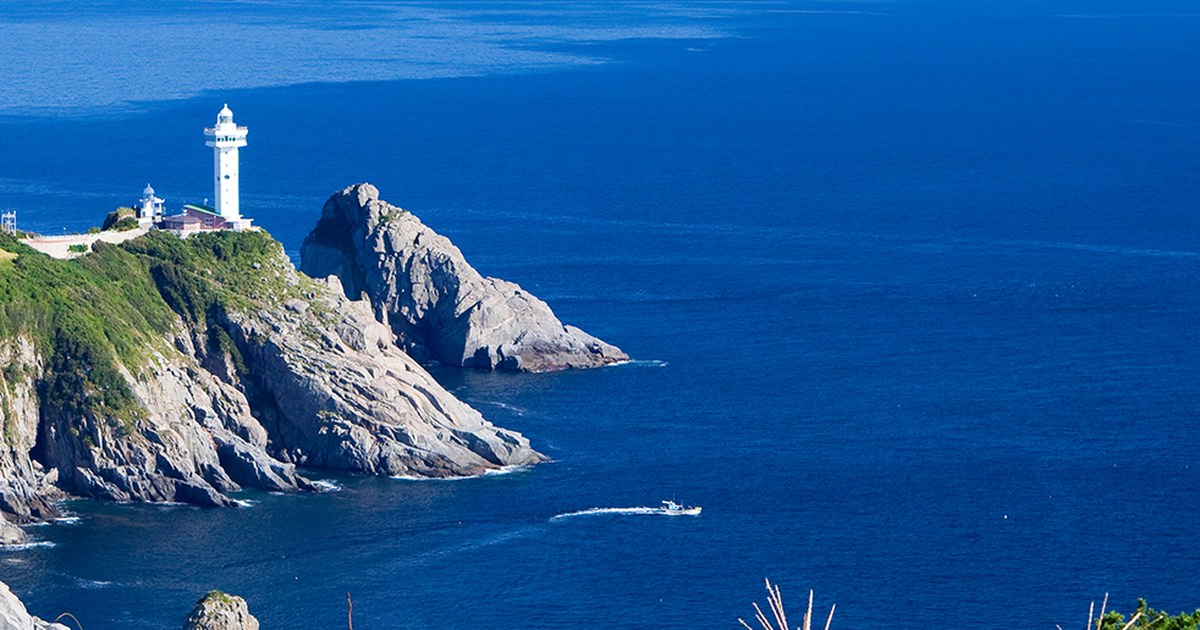
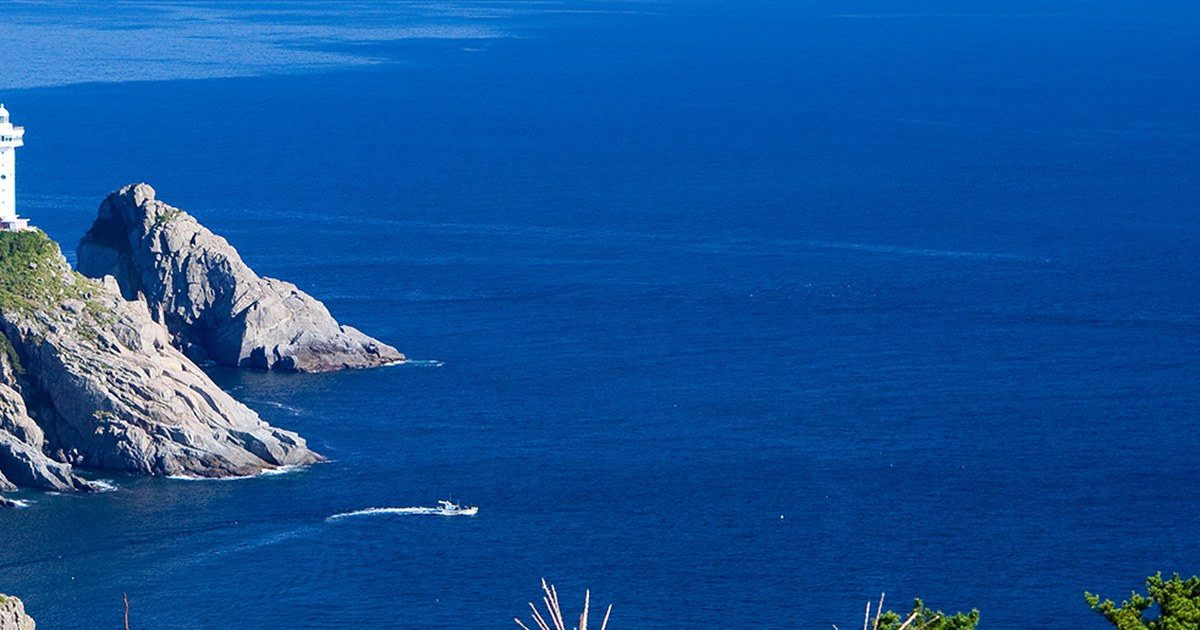
Improve OG share image: lighthouse background, readability
Re-crop the lighthouse photo so the cliff sits away from the text
block, strengthen the dark scrim, and match the org-name/tagline font
size to the date/venue line per feedback.

diff --git a/app/opengraph-image.tsx b/app/opengraph-image.tsx
@@ -35,14 +35,14 @@ export default function OpengraphImage() {
           style={{
             position: 'absolute',
             inset: 0,
-            background: 'linear-gradient(180deg, rgba(3,17,15,0.1) 0%, rgba(3,17,15,0.3) 40%, rgba(3,17,15,0.92) 100%)',
+            background: 'linear-gradient(180deg, rgba(3,17,15,0.18) 0%, rgba(3,17,15,0.42) 38%, rgba(3,17,15,0.94) 100%)',
           }}
         />
         <div
           style={{
             position: 'absolute',
             inset: 0,
-            background: 'linear-gradient(90deg, rgba(3,17,15,0.55) 0%, rgba(3,17,15,0.15) 45%, rgba(3,17,15,0) 75%)',
+            background: 'linear-gradient(90deg, rgba(3,17,15,0.7) 0%, rgba(3,17,15,0.3) 50%, rgba(3,17,15,0) 82%)',
           }}
         />
         <div
